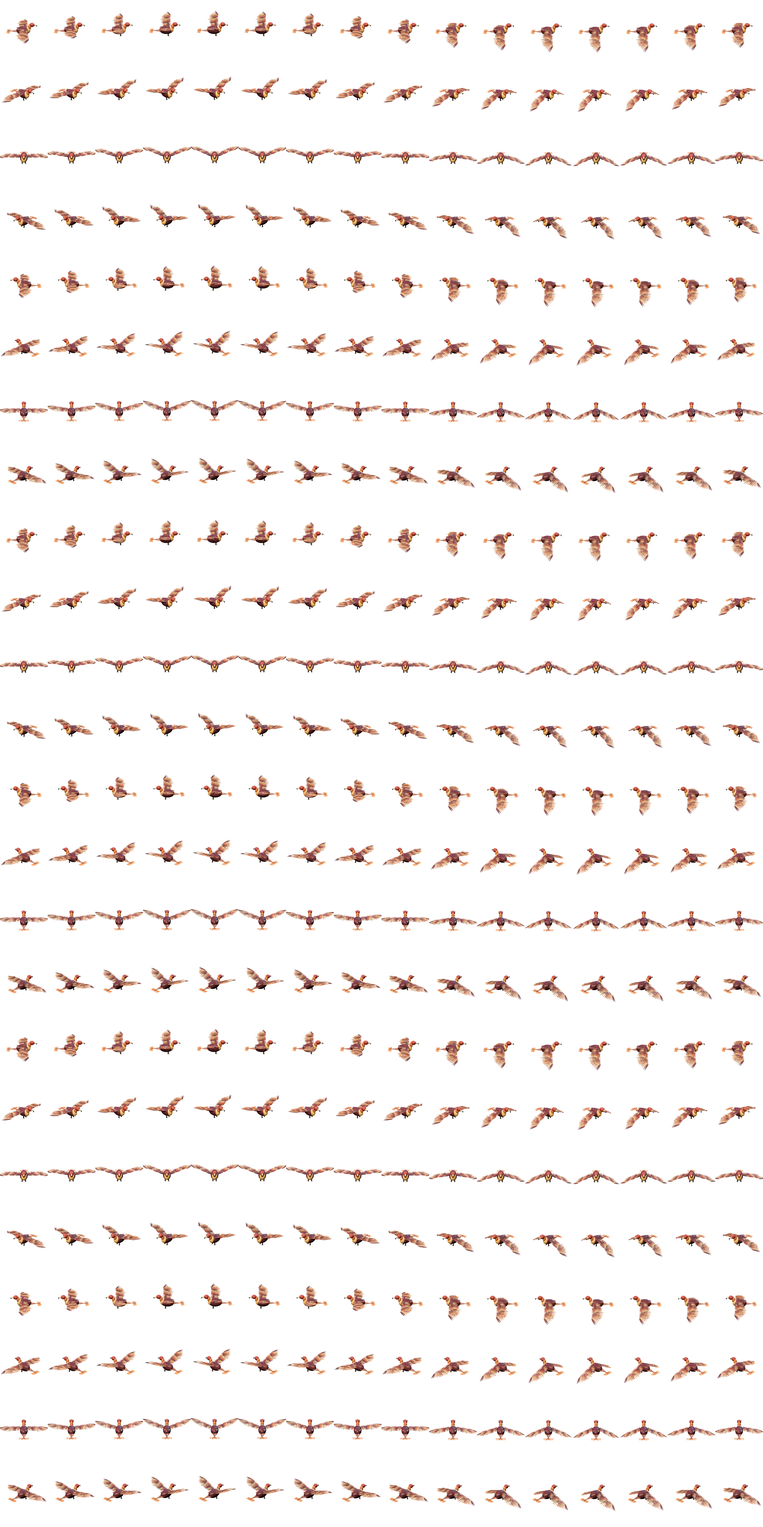
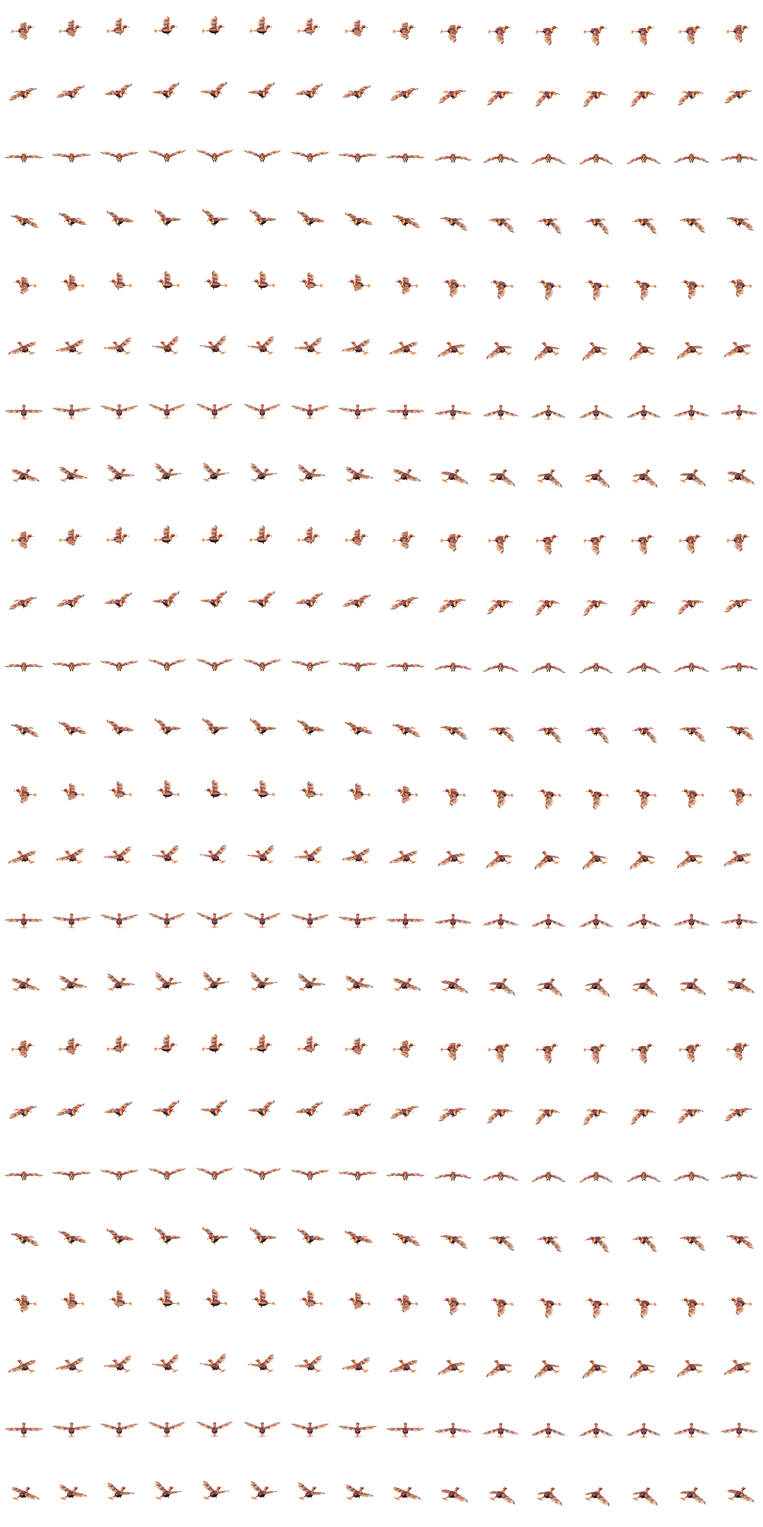
Keep the feathered phoenix smaller by normalizing its wingspan

diff --git a/graphics/live-battlefield.bundle.js b/graphics/live-battlefield.bundle.js
@@ -5171,7 +5171,7 @@ float pathMask=smoothstep(.15,.65,.5+.5*sin(visualWorld.x*.025+sin(visualWorld.z
 `+ie.fragmentShader,ie.fragmentShader=ie.fragmentShader.replace("#include <roughnessmap_fragment>",`#include <roughnessmap_fragment>
 roughnessFactor=mix(roughnessFactor,max(.08,roughnessFactor*.45),wetness);`),ie.fragmentShader=ie.fragmentShader.replace("#include <metalnessmap_fragment>",`#include <metalnessmap_fragment>
 float wear=weathering*metalnessFactor*(.5+.5*sin(visualWorld.x*.37+sin(visualWorld.z*.71)));metalnessFactor*=1.-wear;diffuseColor.rgb=mix(diffuseColor.rgb,vec3(.23,.095,.035),wear*.3);diffuseColor.rgb*=1.-wetness*.12;`),ie.fragmentShader=ie.fragmentShader.replace("#include <opaque_fragment>",`float edge=pow(1.-max(0.,dot(normal,normalize(vViewPosition))),3.);outgoingLight+=vec3(.5,.63,.67)*edge*assetRim*rimStrength*8.;outgoingLight+=diffuseColor.rgb*sssStrength*.12*(1.-max(0.,normal.y));
-#include <opaque_fragment>`)},k.customProgramCacheKey=()=>`visual-v1-${O}-${K}-${i.cascades}`,k.needsUpdate=!0,k}function T(k){return k.traverse(O=>{if(O.isMesh){O.castShadow=!0,O.receiveShadow=!0;for(let K of Array.isArray(O.material)?O.material:[O.material])N(K,{sss:K.userData.kawThinSurface||O.userData.sss||0})}}),o.add(k),k}async function x(k){let O=await new _l().loadAsync(k);return T(O.scene),O}function w(k){let O=new cr;for(let{object:K,distance:re}of k)O.addLevel(K,re);return T(O),O}function R(k,O,K){N(O);let re=new Zn(k,O,K.length);return K.forEach((ie,De)=>re.setMatrixAt(De,ie)),re.instanceMatrix.needsUpdate=!0,re.computeBoundingSphere(),T(re)}function U(k,O,K=8,re=30){if(y.length>=8)return null;let ie=new Qn(O,K,re,2);return ie.position.copy(k),ie.castShadow=!1,o.add(ie),y.push(ie),ie}function z(){let k=Math.max(1,s.clientWidth),O=Math.max(1,s.clientHeight);k===C&&O===I||(C=k,I=O,r.setSize(k,O,!1),f.setSize(k,O),u.aspect=k/O,u.updateProjectionMatrix(),h.updateFrustums())}function X(){r.info.reset(),z(),o.traverse(k=>{k.isMesh&&k.visible&&(k.getWorldPosition(E),k.castShadow=!k.userData.noShadow&&E.distanceTo(u.position)<i.distance)}),h.update();for(let k of y)k.visible=k.position.distanceTo(u.position)<i.distance;f.render()}function q(){h.remove(),h.dispose();let k=new Set;for(let O of M){for(let K of Object.values(O))K?.isTexture&&k.add(K);O.dispose()}for(let O of k)O.dispose();o.traverse(O=>{O.geometry?.dispose(),O.isSkinnedMesh&&O.skeleton.dispose()});for(let O of f.passes)O.dispose?.();f.dispose(),c.dispose(),r.dispose()}return{renderer:r,scene:o,camera:u,csm:h,effects:{ao:m,bloom:v,dof:g,aa:p},weather:b,prepare:T,prepareMaterial:N,loadAsset:x,addLOD:w,addInstances:R,emissiveLight:U,render:X,resize:z,dispose:q}}var Be=.1,Qx="20261010-living-landscape",ln=document.createElement("canvas");ln.id="liveBattlefield";ln.style.cssText="position:absolute;pointer-events:none;z-index:0;display:none";var io=document.getElementById("world");io.insertAdjacentElement("beforebegin",ln);io.style.position="relative";io.style.zIndex="1";var zs=0;try{zs=Math.max(0,Math.min(1,Number(localStorage.getItem("kaw-ground-wetness"))||0))}catch{}var Dh={value:0},Hs=!0;try{Hs=localStorage.getItem("kaw-live-3d")!=="off"}catch{}var Je=null,bl=null,Tl=null,Qr=null,wl=!1,ks=!1,so=!1,to=0,$r=null,eo=null,Bn=new Map,no=new Map,Bs=new Set,$x=null,Uh=[],Lh="";function Nh(){to++,wl=!1,ks=!1,ln.style.display="none",Bn.clear(),no.clear(),Bs.clear(),Uh=[],$r=null,eo=null,$x=null,Lh="",Je?.dispose(),Je=null,window.KawVisual?.suspend(!1)}function ev(s){Nh(),so=!1,bl=s.sessionKey,Tl=window.KawVisual?.quality||"balanced";try{Je=jd(ln,{quality:Tl,cameraType:"orthographic"}),Je.scene.background=new he("#314532"),Je.scene.fog=null,Je.weather.wetness.value=zs;for(let e=0;e<4;e++)Uh.push(Je.emissiveLight(new D(9999,9999,9999),16748602,16,12));nv(s),wl=!0}catch(e){El(e)}}function El(s){so=!0,wl=!1,ks=!1,ln.style.display="none",window.KawVisual?.suspend(!1),console.warn("Live 3D unavailable; using sprite renderer.",s.message)}function Jd(s){if(no.has(s))return no.get(s);if(Bs.has(s))return null;Bs.add(s);let e=to;return Je.loadAsset("assets/model-"+s+".glb?v="+Qx).then(t=>{if(e!==to)return;t.scene.visible=!1,t.scene.updateMatrixWorld(!0),t.scene.traverse(i=>{i.isSkinnedMesh&&(i.skeleton.update(),i.computeBoundingBox())});let n=new Nt().setFromObject(t.scene);no.set(s,{gltf:t,box:n,height:Math.max(1,n.max.y-n.min.y),width:Math.max(1,n.max.x-n.min.x,n.max.z-n.min.z)}),Bs.delete(s)}).catch(t=>{Bs.delete(s),e===to&&El(t)}),null}function tv(s,e){let t=e.state.players[s.owner]?.faction;if(s.type==="trap"&&t!=="covenant")return"world-trap-resin";if(s.building){let i=Math.min(4,s.level||1),r=s.type==="base"&&i>1?"base-level"+i:s.type==="gate"&&s.gateOpen?"gate-open":s.type;return"world-"+r+(["trap","barricade"].includes(r)?"-covenant":t==="horde"?"-dominion":t==="covenant"?"-covenant":"")}let n=s.type==="air2"&&t==="covenant"&&s.venomStinger?"cov-wasp-venom":e.unitAppearance(s.type,t,s.owner);return s.type==="worker"&&(s.cargoGold>0?n+="-carry":s.cargoWood>0&&s.order?.kind==="deliver"?n+="-logs":["repair","build"].includes(s.order?.kind)?n+="-hammer":s.order?.target?.type==="gold"&&(n+="-pick")),n}function Qd(s){s.mixer?.stopAllAction(),s.mixer?.uncacheRoot(s.model),s.roofMaterials?.forEach(e=>e.dispose()),s.root.traverse(e=>{e.isSkinnedMesh&&e.skeleton.dispose()});for(let e of[s.frame,s.mound])e&&(e.geometry.dispose(),e.material.dispose());Je.scene.remove(s.root)}function Ih(s,e,t,n=!1){let i=Jd(e),r=e.startsWith("world-base")?Jd(e.replace(/-level[234]/,"")):null;if(!i||e.startsWith("world-base")&&!r)return Bn.get(s)||null;let o=Bn.get(s);if(o?.name===e)return o;o&&Qd(o);let a=new Jt,l=Bd(i.gltf.scene);l.visible=!0,l.traverse(u=>{u.isMesh&&(u.castShadow=!0,u.receiveShadow=!0)});let c=t*Be/(n?i.height:r?.width||i.width);return l.scale.setScalar(c),l.position.y=-i.box.min.y*c,a.add(l),Je.scene.add(a),o={name:e,root:a,model:l,box:i.box,factor:c,mixer:n?new Cr(l):null,clips:i.gltf.animations,phase:null,frame:null},Bn.set(s,o),o}function nv(s){let e=s.N,t=s.CELL,n=[],i=[],r=[];for(let x=0;x<=e;x++)for(let w=0;w<=e;w++)n.push(w*t*Be,0,x*t*Be),r.push(w/e,x/e);for(let x=0;x<e;x++)for(let w=0;w<e;w++){let R=x*(e+1)+w;i.push(R,R+e+1,R+1,R+1,R+e+1,R+e+2)}let o=new vt;o.setAttribute("position",new et(n,3)),o.setAttribute("uv",new et(r,2)),o.setIndex(i),o.computeVertexNormals();let a=document.createElement("canvas");a.width=a.height=512;let l=a.getContext("2d");l.fillStyle="#e5e5de",l.fillRect(0,0,512,512);for(let x=0;x<9e3;x++){let w=x*79%512,R=x*137%512;l.fillStyle=x%4?"#354f3420":"#fdf6d544",l.fillRect(w,R,1+x%3,2+x%4)}for(let x=0;x<600;x++){let w=x*97%512,R=x*149%512;l.strokeStyle=x%3?"#37532c44":"#f6e3a544",l.beginPath(),l.moveTo(w,R),l.lineTo(w-2,R-5),l.stroke()}let c=new Ms(a);c.colorSpace=mt,c.wrapS=c.wrapT=Ut,c.repeat.set(32,32);let u=Ph(Je,{grass:s.state.map==="canyon"?10057548:s.state.map==="frontier"?6915449:4875318});u.map=c,u.bumpMap=c,u.bumpScale=.015,$r=new Ye(o,u),Je.prepare($r),$r.castShadow=!1,$r.userData.noShadow=!0;let h=document.createElement("canvas");h.width=h.height=256;let d=h.getContext("2d");for(let x=0;x<256;x++){let w=Math.floor(x/19),R=112+w%4*15;d.fillStyle=`rgb(${R+19},${R+9},${R})`,d.fillRect(0,x,256,1)}for(let x=0;x<1200;x++)d.fillStyle=x%3?"#2c282526":"#eee0bd30",d.fillRect(x*73%256,x*97%256,3+x%7,1);let f=new Ms(h);f.colorSpace=mt,f.wrapS=f.wrapT=Ut;let m=new Rt({map:f,bumpMap:f,bumpScale:.12,roughness:.98,side:Ht}),v=[],g=[],p=(x,w,R,U,z)=>x.push(...w,...R,...U,...U,...R,...z),b=(x,w,R,U,z,X)=>p(v,[x*Be,z*Be,R*Be],[x*Be,X*Be,U*Be],[w*Be,z*Be,R*Be],[w*Be,X*Be,U*Be]),M,y=(x,w,R,U,z,X)=>Fd(g,x,w,R,U,z,X,M);for(let x of s.state.plateaus||[]){M={x:x.x+x.w/2,z:x.y+x.h/2};let w=x.rampX-64,R=x.rampX+64,U=x.y+x.h,z=U-80,X=U+80;b(x.x,w,x.y,U,x.height,x.height),b(R,x.x+x.w,x.y,U,x.height,x.height),b(w,R,x.y,z,x.height,x.height),b(w,R,z,X,x.height,0),y(x.x,x.y,x.x+x.w,x.y,x.height,x.height),y(x.x,x.y,x.x,U,x.height,x.height),y(x.x+x.w,x.y,x.x+x.w,U,x.height,x.height),y(x.x,U,w,U,x.height,x.height),y(R,U,x.x+x.w,U,x.height,x.height),y(w,z,w,X,x.height,0),y(R,z,R,X,x.height,0)}for(let[x,w]of[[v,u],[g,m]])if(x.length){let R=new vt;R.setAttribute("position",new et(x,3));let U=[];for(let z=0;z<x.length;z+=3)U.push(w===m?(x[z]+x[z+2])/20:x[z]/(s.SIZE*Be),w===m?x[z+1]/8:(x[z+2]+x[z+1])/(s.SIZE*Be));R.setAttribute("uv",new et(U,2)),R.computeVertexNormals(),Je.prepare(new Ye(R,w))}let E=[],C=[];for(let x of s.state.rivers||[]){let w=E.length/3;for(let R of x.points)for(let U of[-1,1])E.push((R.x+U*x.width/2)*Be,.08,R.y*Be);for(let R=0;R<x.points.length-1;R++){let U=w+R*2;C.push(U,U+2,U+1,U+1,U+2,U+3)}}if(E.length){let x=new vt;x.setAttribute("position",new et(E,3)),x.setIndex(C),x.computeVertexNormals();let w=new Bt({color:3239035,roughness:.18,metalness:.15,clearcoat:.8,side:Ht});eo=new Ye(x,w),Je.prepare(eo),eo.castShadow=!1,eo.userData.noShadow=!0;let R=w.onBeforeCompile,U=w.customProgramCacheKey;w.onBeforeCompile=z=>{R(z),z.uniforms.waterTime=Dh,z.fragmentShader=`uniform float waterTime;
+#include <opaque_fragment>`)},k.customProgramCacheKey=()=>`visual-v1-${O}-${K}-${i.cascades}`,k.needsUpdate=!0,k}function T(k){return k.traverse(O=>{if(O.isMesh){O.castShadow=!0,O.receiveShadow=!0;for(let K of Array.isArray(O.material)?O.material:[O.material])N(K,{sss:K.userData.kawThinSurface||O.userData.sss||0})}}),o.add(k),k}async function x(k){let O=await new _l().loadAsync(k);return T(O.scene),O}function w(k){let O=new cr;for(let{object:K,distance:re}of k)O.addLevel(K,re);return T(O),O}function R(k,O,K){N(O);let re=new Zn(k,O,K.length);return K.forEach((ie,De)=>re.setMatrixAt(De,ie)),re.instanceMatrix.needsUpdate=!0,re.computeBoundingSphere(),T(re)}function U(k,O,K=8,re=30){if(y.length>=8)return null;let ie=new Qn(O,K,re,2);return ie.position.copy(k),ie.castShadow=!1,o.add(ie),y.push(ie),ie}function z(){let k=Math.max(1,s.clientWidth),O=Math.max(1,s.clientHeight);k===C&&O===I||(C=k,I=O,r.setSize(k,O,!1),f.setSize(k,O),u.aspect=k/O,u.updateProjectionMatrix(),h.updateFrustums())}function X(){r.info.reset(),z(),o.traverse(k=>{k.isMesh&&k.visible&&(k.getWorldPosition(E),k.castShadow=!k.userData.noShadow&&E.distanceTo(u.position)<i.distance)}),h.update();for(let k of y)k.visible=k.position.distanceTo(u.position)<i.distance;f.render()}function q(){h.remove(),h.dispose();let k=new Set;for(let O of M){for(let K of Object.values(O))K?.isTexture&&k.add(K);O.dispose()}for(let O of k)O.dispose();o.traverse(O=>{O.geometry?.dispose(),O.isSkinnedMesh&&O.skeleton.dispose()});for(let O of f.passes)O.dispose?.();f.dispose(),c.dispose(),r.dispose()}return{renderer:r,scene:o,camera:u,csm:h,effects:{ao:m,bloom:v,dof:g,aa:p},weather:b,prepare:T,prepareMaterial:N,loadAsset:x,addLOD:w,addInstances:R,emissiveLight:U,render:X,resize:z,dispose:q}}var Be=.1,Qx="20261010-living-landscape",ln=document.createElement("canvas");ln.id="liveBattlefield";ln.style.cssText="position:absolute;pointer-events:none;z-index:0;display:none";var io=document.getElementById("world");io.insertAdjacentElement("beforebegin",ln);io.style.position="relative";io.style.zIndex="1";var zs=0;try{zs=Math.max(0,Math.min(1,Number(localStorage.getItem("kaw-ground-wetness"))||0))}catch{}var Dh={value:0},Hs=!0;try{Hs=localStorage.getItem("kaw-live-3d")!=="off"}catch{}var Je=null,bl=null,Tl=null,Qr=null,wl=!1,ks=!1,so=!1,to=0,$r=null,eo=null,Bn=new Map,no=new Map,Bs=new Set,$x=null,Uh=[],Lh="";function Nh(){to++,wl=!1,ks=!1,ln.style.display="none",Bn.clear(),no.clear(),Bs.clear(),Uh=[],$r=null,eo=null,$x=null,Lh="",Je?.dispose(),Je=null,window.KawVisual?.suspend(!1)}function ev(s){Nh(),so=!1,bl=s.sessionKey,Tl=window.KawVisual?.quality||"balanced";try{Je=jd(ln,{quality:Tl,cameraType:"orthographic"}),Je.scene.background=new he("#314532"),Je.scene.fog=null,Je.weather.wetness.value=zs;for(let e=0;e<4;e++)Uh.push(Je.emissiveLight(new D(9999,9999,9999),16748602,16,12));nv(s),wl=!0}catch(e){El(e)}}function El(s){so=!0,wl=!1,ks=!1,ln.style.display="none",window.KawVisual?.suspend(!1),console.warn("Live 3D unavailable; using sprite renderer.",s.message)}function Jd(s){if(no.has(s))return no.get(s);if(Bs.has(s))return null;Bs.add(s);let e=to;return Je.loadAsset("assets/model-"+s+".glb?v="+Qx).then(t=>{if(e!==to)return;t.scene.visible=!1,t.scene.updateMatrixWorld(!0),t.scene.traverse(i=>{i.isSkinnedMesh&&(i.skeleton.update(),i.computeBoundingBox())});let n=new Nt().setFromObject(t.scene);no.set(s,{gltf:t,box:n,height:Math.max(1,n.max.y-n.min.y),width:Math.max(1,n.max.x-n.min.x,n.max.z-n.min.z)}),Bs.delete(s)}).catch(t=>{Bs.delete(s),e===to&&El(t)}),null}function tv(s,e){let t=e.state.players[s.owner]?.faction;if(s.type==="trap"&&t!=="covenant")return"world-trap-resin";if(s.building){let i=Math.min(4,s.level||1),r=s.type==="base"&&i>1?"base-level"+i:s.type==="gate"&&s.gateOpen?"gate-open":s.type;return"world-"+r+(["trap","barricade"].includes(r)?"-covenant":t==="horde"?"-dominion":t==="covenant"?"-covenant":"")}let n=s.type==="air2"&&t==="covenant"&&s.venomStinger?"cov-wasp-venom":e.unitAppearance(s.type,t,s.owner);return s.type==="worker"&&(s.cargoGold>0?n+="-carry":s.cargoWood>0&&s.order?.kind==="deliver"?n+="-logs":["repair","build"].includes(s.order?.kind)?n+="-hammer":s.order?.target?.type==="gold"&&(n+="-pick")),n}function Qd(s){s.mixer?.stopAllAction(),s.mixer?.uncacheRoot(s.model),s.roofMaterials?.forEach(e=>e.dispose()),s.root.traverse(e=>{e.isSkinnedMesh&&e.skeleton.dispose()});for(let e of[s.frame,s.mound])e&&(e.geometry.dispose(),e.material.dispose());Je.scene.remove(s.root)}function Ih(s,e,t,n=!1){let i=Jd(e),r=e.startsWith("world-base")?Jd(e.replace(/-level[234]/,"")):null;if(!i||e.startsWith("world-base")&&!r)return Bn.get(s)||null;let o=Bn.get(s);if(o?.name===e)return o;o&&Qd(o);let a=new Jt,l=Bd(i.gltf.scene);l.visible=!0,l.traverse(u=>{u.isMesh&&(u.castShadow=!0,u.receiveShadow=!0)});let c=t*Be/(n?e==="phoenix"?i.width/2.9:i.height:r?.width||i.width);return l.scale.setScalar(c),l.position.y=-i.box.min.y*c,a.add(l),Je.scene.add(a),o={name:e,root:a,model:l,box:i.box,factor:c,mixer:n?new Cr(l):null,clips:i.gltf.animations,phase:null,frame:null},Bn.set(s,o),o}function nv(s){let e=s.N,t=s.CELL,n=[],i=[],r=[];for(let x=0;x<=e;x++)for(let w=0;w<=e;w++)n.push(w*t*Be,0,x*t*Be),r.push(w/e,x/e);for(let x=0;x<e;x++)for(let w=0;w<e;w++){let R=x*(e+1)+w;i.push(R,R+e+1,R+1,R+1,R+e+1,R+e+2)}let o=new vt;o.setAttribute("position",new et(n,3)),o.setAttribute("uv",new et(r,2)),o.setIndex(i),o.computeVertexNormals();let a=document.createElement("canvas");a.width=a.height=512;let l=a.getContext("2d");l.fillStyle="#e5e5de",l.fillRect(0,0,512,512);for(let x=0;x<9e3;x++){let w=x*79%512,R=x*137%512;l.fillStyle=x%4?"#354f3420":"#fdf6d544",l.fillRect(w,R,1+x%3,2+x%4)}for(let x=0;x<600;x++){let w=x*97%512,R=x*149%512;l.strokeStyle=x%3?"#37532c44":"#f6e3a544",l.beginPath(),l.moveTo(w,R),l.lineTo(w-2,R-5),l.stroke()}let c=new Ms(a);c.colorSpace=mt,c.wrapS=c.wrapT=Ut,c.repeat.set(32,32);let u=Ph(Je,{grass:s.state.map==="canyon"?10057548:s.state.map==="frontier"?6915449:4875318});u.map=c,u.bumpMap=c,u.bumpScale=.015,$r=new Ye(o,u),Je.prepare($r),$r.castShadow=!1,$r.userData.noShadow=!0;let h=document.createElement("canvas");h.width=h.height=256;let d=h.getContext("2d");for(let x=0;x<256;x++){let w=Math.floor(x/19),R=112+w%4*15;d.fillStyle=`rgb(${R+19},${R+9},${R})`,d.fillRect(0,x,256,1)}for(let x=0;x<1200;x++)d.fillStyle=x%3?"#2c282526":"#eee0bd30",d.fillRect(x*73%256,x*97%256,3+x%7,1);let f=new Ms(h);f.colorSpace=mt,f.wrapS=f.wrapT=Ut;let m=new Rt({map:f,bumpMap:f,bumpScale:.12,roughness:.98,side:Ht}),v=[],g=[],p=(x,w,R,U,z)=>x.push(...w,...R,...U,...U,...R,...z),b=(x,w,R,U,z,X)=>p(v,[x*Be,z*Be,R*Be],[x*Be,X*Be,U*Be],[w*Be,z*Be,R*Be],[w*Be,X*Be,U*Be]),M,y=(x,w,R,U,z,X)=>Fd(g,x,w,R,U,z,X,M);for(let x of s.state.plateaus||[]){M={x:x.x+x.w/2,z:x.y+x.h/2};let w=x.rampX-64,R=x.rampX+64,U=x.y+x.h,z=U-80,X=U+80;b(x.x,w,x.y,U,x.height,x.height),b(R,x.x+x.w,x.y,U,x.height,x.height),b(w,R,x.y,z,x.height,x.height),b(w,R,z,X,x.height,0),y(x.x,x.y,x.x+x.w,x.y,x.height,x.height),y(x.x,x.y,x.x,U,x.height,x.height),y(x.x+x.w,x.y,x.x+x.w,U,x.height,x.height),y(x.x,U,w,U,x.height,x.height),y(R,U,x.x+x.w,U,x.height,x.height),y(w,z,w,X,x.height,0),y(R,z,R,X,x.height,0)}for(let[x,w]of[[v,u],[g,m]])if(x.length){let R=new vt;R.setAttribute("position",new et(x,3));let U=[];for(let z=0;z<x.length;z+=3)U.push(w===m?(x[z]+x[z+2])/20:x[z]/(s.SIZE*Be),w===m?x[z+1]/8:(x[z+2]+x[z+1])/(s.SIZE*Be));R.setAttribute("uv",new et(U,2)),R.computeVertexNormals(),Je.prepare(new Ye(R,w))}let E=[],C=[];for(let x of s.state.rivers||[]){let w=E.length/3;for(let R of x.points)for(let U of[-1,1])E.push((R.x+U*x.width/2)*Be,.08,R.y*Be);for(let R=0;R<x.points.length-1;R++){let U=w+R*2;C.push(U,U+2,U+1,U+1,U+2,U+3)}}if(E.length){let x=new vt;x.setAttribute("position",new et(E,3)),x.setIndex(C),x.computeVertexNormals();let w=new Bt({color:3239035,roughness:.18,metalness:.15,clearcoat:.8,side:Ht});eo=new Ye(x,w),Je.prepare(eo),eo.castShadow=!1,eo.userData.noShadow=!0;let R=w.onBeforeCompile,U=w.customProgramCacheKey;w.onBeforeCompile=z=>{R(z),z.uniforms.waterTime=Dh,z.fragmentShader=`uniform float waterTime;
 `+z.fragmentShader,z.fragmentShader=z.fragmentShader.replace("#include <normal_fragment_maps>",`#include <normal_fragment_maps>
 normal=normalize(normal+vec3(sin(visualWorld.x*1.8+waterTime*1.5)*.06,0.,cos(visualWorld.z*2.-waterTime*2.)*.06));`)},w.customProgramCacheKey=()=>U()+":water",w.needsUpdate=!0}let I=new Rt({color:8413501,roughness:.88});Je.prepareMaterial(I,{rim:0});let N=[];function T(x,w,R,U){let z=new Ye(new gr(.35,.38,U,8),I);z.rotation.z=Math.PI/2,z.position.set(x*Be,w*Be,R*Be),z.castShadow=!0,z.receiveShadow=!0,Je.scene.add(z),N.push(z)}for(let x of s.state.rivers||[])for(let w of x.bridges){let R=s.riverCenter(x,w);for(let U=0;U<14;U++)T(R,4,w-52+U*8,14)}for(let x of s.state.plateaus||[])for(let w=0;w<21;w++){let R=x.y+x.h-80+w*8;T(x.rampX,s.terrainHeight(x.rampX,R)+1,R,12.4)}Od(Je,s,Dh)}function iv(s){Qr=s;let e=s.state.time+(s.state.networkReceivedAt?Math.min(.18,(performance.now()-s.state.networkReceivedAt)/1e3):0);if(!Hs||so&&bl===s.sessionKey||((!Je||bl!==s.sessionKey||Tl!==(window.KawVisual?.quality||"balanced"))&&ev(s),!wl))return!1;try{let t=io.getBoundingClientRect(),n=io.parentElement.getBoundingClientRect();ln.style.left=t.left-n.left+"px",ln.style.top=t.top-n.top+"px",ln.style.width=t.width+"px",ln.style.height=t.height+"px",Je.resize();let i=Je.camera,r=s.viewport.width*Be,o=s.viewport.height*Be*Math.SQRT1_2;i.left=-r/2,i.right=r/2,i.top=o/2,i.bottom=-o/2,i.position.set((s.cam.x+s.viewport.width/2)*Be,100,(s.cam.y+s.viewport.height/2)*Be+100),i.lookAt((s.cam.x+s.viewport.width/2)*Be,0,(s.cam.y+s.viewport.height/2)*Be),i.updateProjectionMatrix();let a=r+":"+o;a!==Lh&&(Je.csm.updateFrustums(),Lh=a);let l=!1,c=new Set;for(let h of s.state.entities){if(h.hp<=0||h.hiddenInMine||h.owner!==0&&!s.visible(h.x,h.y)||!s.inViewport(h.x,h.y,220))continue;let d="e"+h.id;c.add(d);let f=h.building?h.size*2.7:h.type==="sniper"&&s.state.players[h.owner].faction==="covenant"?78:h.type==="melee"&&s.state.players[h.owner].faction==="covenant"?80:["air2","air3"].includes(h.type)?85:h.type==="beetle"||h.type==="cavalier"?70:55,m=Ih(d,tv(h,s),f*(h.building?1:s.unitVisualScale(h)),!h.building);if(!m){l=!0;continue}m.root.visible=!0;let v=h.x,g=h.y;if(h.networkAt&&h.networkFrom){m.networkAt!==h.networkAt&&(m.networkAt=h.networkAt,m.from=m.anchor||h.networkFrom);let p=Math.min(1,(performance.now()-h.networkAt)/150);v=m.from.x+(h.x-m.from.x)*p,g=m.from.y+(h.y-m.from.y)*p}if(m.anchor={x:v,y:g},m.lastUsed=performance.now(),m.root.position.set(v*Be,s.renderAltitude(h)*Be,g*Be),m.root.rotation.y=h.building?h.type==="trap"&&s.state.players[h.owner].faction==="covenant"?e*1.6:0:Math.PI/2-(h.facing||0),h.building&&s.state.players[h.owner].faction==="covenant"&&!m.roofMaterials&&(m.roofMaterials=[],m.model.traverse(p=>{if(!p.isMesh||p.material.name!=="verdant-roof")return;let b=p.material.clone(),M=new he(s.state.players[h.owner].color);Je.prepareMaterial(b);let y=b.onBeforeCompile;b.onBeforeCompile=E=>{y(E),E.uniforms.roofTeam={value:M},E.fragmentShader=`uniform vec3 roofTeam;
 `+E.fragmentShader,E.fragmentShader=E.fragmentShader.replace("#include <color_fragment>",`#include <color_fragment>

diff --git a/tools/frontier-art-extension.js b/tools/frontier-art-extension.js
@@ -128,7 +128,7 @@ function kawFlyer(name){if(name==='pig')return kawPig();if(name==='phoenix')retu
 function kawVehicle(name){const root=new Kt,wood=kawMaterial(0x806044,'wood'),steel=kawMaterial(0x798f96,'metal',.8),dark=kawMaterial(0x28362e),trim=kawMaterial(0xd2b986,'metal',.6);ot(root,31,8,37,wood,0,11,0);root.userData.wheels=[];for(const x of [-19,19])for(const z of [-12,12]){const wheel=J(root,st('cylinder',8,8,4),dark,x,9,z);wheel.rotation.z=Math.PI/2;root.userData.wheels.push(wheel);V(root,3,trim,x,9,z);}if(name==='bombard'){const barrel=J(root,st('cylinder',6,8,47),steel,0,22,9);barrel.rotation.x=Math.PI/2;J(root,st('torus',6.1,1),trim,0,22,32);ot(root,18,8,14,steel,0,16,-8);}else{for(const x of [-10,10])ot(root,4,30,5,wood,x,25,0);const arm=J(root,st('cylinder',3,3,49),wood,0,31,7);arm.rotation.x=.5;V(root,9,steel,0,50,18,1,.4,1);V(root,7,kawMaterial(0x8c927b),0,54,18);}return root;}
 window.KawCapture=(name,angle,phase,frame,width=144,height=192,horde=false)=>{
  if(ts)fn.remove(ts);const key=name+horde;ts=kawModels[key]||(kawModels[key]=name==='world-gate'||name==='world-gate-open'?kawGate(name.endsWith('-open'),horde):name==='menu-orc'?kawMenuOrc():name==='cov-captain'?kawRockGolem():name.startsWith('world-')&&horde==='covenant'?kawCovenantWorld(name.slice(6)):['cov-shellguard','cov-archer','cov-resin'].includes(name)?kawCreature(name):name==='carrion'?kawCarrion():['cov-beetle','cov-moth','cov-wasp','cov-wasp-venom','cov-centipede','cov-burrower'].includes(name)?kawInsect(name):name.startsWith('cov-')||['shieldwarden','medic','engineer','trapper','bogbreaker','pathfinder'].includes(name)?kawSpecialCharacter(name):name==='cavalier'?kawCavalier():name.startsWith('world-')?kawWorld(name.slice(6),horde):['bombard','hewer'].includes(name)?kawVehicle(name):['phoenix','dragon','gryphon','wyvern','pig'].includes(name)?kawFlyer(name):kawCharacter(name));if(!ts.userData.painted){kawFinishPaintedModel(ts,name,horde);if(ts.userData.arthropod)ts.traverse(m=>{if(m.isMesh){m.material.flatShading=false;m.material.needsUpdate=true;}});ts.userData.painted=true;}fn.add(ts);ts.position.set(0,0,0);ts.rotation.set(0,0,0);ye.setSize(width,height,false);Sn.aspect=width/height;
- const world=name.startsWith('world-');const broad=['cov-wasp','cov-wasp-venom','cov-centipede','phoenix','dragon','gryphon','wyvern','cov-moth','cov-wasp','carrion'].includes(name);Sn.position.set(world&&!['world-gold','world-tree','world-pine','world-mountain'].includes(name)?0:world?125:0,world?195:82,world?(name.includes('-level')?320:245):['cov-wasp','cov-wasp-venom','cov-centipede'].includes(name)?245:broad?340:['cavalier','cov-beetle'].includes(name)?270:name==='cov-burrower'?250:name==='shieldwarden'?320:name==='trapper'?300:['cov-shellguard','cov-resin'].includes(name)?350:name==='cov-archer'?270:name==='cov-captain'?280:name==='bogbreaker'?330:name==='devoured'?370:['knight','pig','marksman','witch'].includes(name)?280:name==='shaman'?285:name==='troll'?240:205);Sn.lookAt(0,world?32:['cavalier','cov-beetle'].includes(name)?49:name==='troll'?44:38,0);Sn.updateProjectionMatrix();if(ts.userData.verdantArchitecture){ts.updateMatrixWorld(true);let bounds=null;ts.traverse(m=>{if(!m.isMesh)return;m.geometry.computeBoundingBox();const b=m.geometry.boundingBox.clone().applyMatrix4(m.matrixWorld);bounds?bounds.union(b):bounds=b;});if(bounds){const height=bounds.max.y-bounds.min.y,width=Math.max(bounds.max.x-bounds.min.x,bounds.max.z-bounds.min.z),distance=Math.max(height,width/Sn.aspect)/(2*Math.tan(Sn.fov*Math.PI/360))*1.35,center=(bounds.max.y+bounds.min.y)*.5;Sn.position.set(0,center+distance*.64,distance*.77);Sn.lookAt(0,center,0);Sn.updateProjectionMatrix();}}if(name.startsWith('world-base')){Sn.position.set(0,horde==='covenant'?230:195,horde==='covenant'?410:320);Sn.lookAt(0,horde==='covenant'?85:45,0);Sn.updateProjectionMatrix();}if(name==='phoenix'){Sn.position.set(0,180,300);Sn.lookAt(0,24,0);Sn.updateProjectionMatrix();}const progress=frame/16;if(name==='menu-orc'){Sn.position.set(90,110,245);Sn.lookAt(0,40,0);Sn.updateProjectionMatrix();ts.userData.menuBody.scale.y=1+Math.sin(progress*Math.PI*2)*.008;for(let i=0;i<ts.userData.drops.length;i++){const drop=ts.userData.drops[i],t=(progress+i/6)%1;drop.position.y=14-t*28;drop.scale.y=1+t*.9;}}
+ const world=name.startsWith('world-');const broad=['cov-wasp','cov-wasp-venom','cov-centipede','phoenix','dragon','gryphon','wyvern','cov-moth','cov-wasp','carrion'].includes(name);Sn.position.set(world&&!['world-gold','world-tree','world-pine','world-mountain'].includes(name)?0:world?125:0,world?195:82,world?(name.includes('-level')?320:245):['cov-wasp','cov-wasp-venom','cov-centipede'].includes(name)?245:broad?340:['cavalier','cov-beetle'].includes(name)?270:name==='cov-burrower'?250:name==='shieldwarden'?320:name==='trapper'?300:['cov-shellguard','cov-resin'].includes(name)?350:name==='cov-archer'?270:name==='cov-captain'?280:name==='bogbreaker'?330:name==='devoured'?370:['knight','pig','marksman','witch'].includes(name)?280:name==='shaman'?285:name==='troll'?240:205);Sn.lookAt(0,world?32:['cavalier','cov-beetle'].includes(name)?49:name==='troll'?44:38,0);Sn.updateProjectionMatrix();if(ts.userData.verdantArchitecture){ts.updateMatrixWorld(true);let bounds=null;ts.traverse(m=>{if(!m.isMesh)return;m.geometry.computeBoundingBox();const b=m.geometry.boundingBox.clone().applyMatrix4(m.matrixWorld);bounds?bounds.union(b):bounds=b;});if(bounds){const height=bounds.max.y-bounds.min.y,width=Math.max(bounds.max.x-bounds.min.x,bounds.max.z-bounds.min.z),distance=Math.max(height,width/Sn.aspect)/(2*Math.tan(Sn.fov*Math.PI/360))*1.35,center=(bounds.max.y+bounds.min.y)*.5;Sn.position.set(0,center+distance*.64,distance*.77);Sn.lookAt(0,center,0);Sn.updateProjectionMatrix();}}if(name.startsWith('world-base')){Sn.position.set(0,horde==='covenant'?230:195,horde==='covenant'?410:320);Sn.lookAt(0,horde==='covenant'?85:45,0);Sn.updateProjectionMatrix();}if(name==='phoenix'){Sn.position.set(0,240,405);Sn.lookAt(0,24,0);Sn.updateProjectionMatrix();}const progress=frame/16;if(name==='menu-orc'){Sn.position.set(90,110,245);Sn.lookAt(0,40,0);Sn.updateProjectionMatrix();ts.userData.menuBody.scale.y=1+Math.sin(progress*Math.PI*2)*.008;for(let i=0;i<ts.userData.drops.length;i++){const drop=ts.userData.drops[i],t=(progress+i/6)%1;drop.position.y=14-t*28;drop.scale.y=1+t*.9;}}
  if(ts.userData.ironBeast)kawAnimateIronBeast(ts,angle,phase,progress);
  if(ts.userData.windElemental)kawAnimateWindElemental(ts,angle,phase,progress);
  if(ts.userData.creature)kawAnimateCreature(ts,angle,phase,progress);

diff --git a/graphics/live-battlefield.js b/graphics/live-battlefield.js
@@ -17,8 +17,8 @@ function assetName(e,c){const race=c.state.players[e.owner]?.faction;if(e.type==
 function releaseEntry(entry){entry.mixer?.stopAllAction();entry.mixer?.uncacheRoot(entry.model);entry.roofMaterials?.forEach(m=>m.dispose());entry.root.traverse(m=>{if(m.isSkinnedMesh)m.skeleton.dispose();});for(const part of [entry.frame,entry.mound])if(part){part.geometry.dispose();part.material.dispose();}pipeline.scene.remove(entry.root);}
 function instantiate(id,name,size,unit=false){const template=ensure(name),baseline=name.startsWith('world-base')?ensure(name.replace(/-level[234]/,'')):null;// Retain the attached rig while a worker tool or stronghold upgrade loads.
  if(!template||name.startsWith('world-base')&&!baseline)return objects.get(id)||null;let entry=objects.get(id);if(entry?.name===name)return entry;if(entry)releaseEntry(entry);
- const root=new THREE.Group(),model=cloneRig(template.gltf.scene);model.visible=true;model.traverse(m=>{if(m.isMesh){m.castShadow=true;m.receiveShadow=true;}});// Anchor all Stronghold tiers to the level-one asset, so existing towers never shrink.
- const factor=size*SCALE/(unit?template.height:baseline?.width||template.width);model.scale.setScalar(factor);model.position.y=-template.box.min.y*factor;root.add(model);pipeline.scene.add(root);entry={name,root,model,box:template.box,factor,mixer:unit?new THREE.AnimationMixer(model):null,clips:template.gltf.animations,phase:null,frame:null};objects.set(id,entry);return entry;}
+ const root=new THREE.Group(),model=cloneRig(template.gltf.scene);model.visible=true;model.traverse(m=>{if(m.isMesh){m.castShadow=true;m.receiveShadow=true;}});// Anchor all Stronghold tiers to level one. Phoenix span/height 2.9 matches its former silhouette, so the wider feather fan cannot undo its size reduction.
+ const factor=size*SCALE/(unit?(name==='phoenix'?template.width/2.9:template.height):baseline?.width||template.width);model.scale.setScalar(factor);model.position.y=-template.box.min.y*factor;root.add(model);pipeline.scene.add(root);entry={name,root,model,box:template.box,factor,mixer:unit?new THREE.AnimationMixer(model):null,clips:template.gltf.animations,phase:null,frame:null};objects.set(id,entry);return entry;}
 function buildTerrain(c){const n=c.N,step=c.CELL,vertices=[],indices=[],uv=[];for(let z=0;z<=n;z++)for(let x=0;x<=n;x++){vertices.push(x*step*SCALE,0,z*step*SCALE);uv.push(x/n,z/n);}for(let z=0;z<n;z++)for(let x=0;x<n;x++){const i=z*(n+1)+x;indices.push(i,i+n+1,i+1,i+1,i+n+1,i+n+2);}const g=new THREE.BufferGeometry();g.setAttribute('position',new THREE.Float32BufferAttribute(vertices,3));g.setAttribute('uv',new THREE.Float32BufferAttribute(uv,2));g.setIndex(indices);g.computeVertexNormals();const textureCanvas=document.createElement('canvas');textureCanvas.width=textureCanvas.height=512;const paint=textureCanvas.getContext('2d');paint.fillStyle='#e5e5de';paint.fillRect(0,0,512,512);for(let i=0;i<9000;i++){const x=i*79%512,z=i*137%512;paint.fillStyle=i%4?'#354f3420':'#fdf6d544';paint.fillRect(x,z,1+i%3,2+i%4);}for(let i=0;i<600;i++){const x=i*97%512,z=i*149%512;paint.strokeStyle=i%3?'#37532c44':'#f6e3a544';paint.beginPath();paint.moveTo(x,z);paint.lineTo(x-2,z-5);paint.stroke();}const texture=new THREE.CanvasTexture(textureCanvas);texture.colorSpace=THREE.SRGBColorSpace;texture.wrapS=texture.wrapT=THREE.RepeatWrapping;texture.repeat.set(32,32);const terrainMaterial=createTerrainMaterial(pipeline,{grass:c.state.map==='canyon'?0x99774c:c.state.map==='frontier'?0x698579:0x4a6436});terrainMaterial.map=texture;terrainMaterial.bumpMap=texture;terrainMaterial.bumpScale=.015;terrain=new THREE.Mesh(g,terrainMaterial);pipeline.prepare(terrain);terrain.castShadow=false;terrain.userData.noShadow=true;
  // Exact plateau boundaries avoid interpolated hills where simulation has a sheer cliff.
  const rockCanvas=document.createElement('canvas');rockCanvas.width=rockCanvas.height=256;const rockPaint=rockCanvas.getContext('2d');for(let y=0;y<256;y++){const band=Math.floor(y/19),shade=112+band%4*15;rockPaint.fillStyle=`rgb(${shade+19},${shade+9},${shade})`;rockPaint.fillRect(0,y,256,1);}for(let i=0;i<1200;i++){rockPaint.fillStyle=i%3?'#2c282526':'#eee0bd30';rockPaint.fillRect(i*73%256,i*97%256,3+i%7,1);}const rockTexture=new THREE.CanvasTexture(rockCanvas);rockTexture.colorSpace=THREE.SRGBColorSpace;rockTexture.wrapS=rockTexture.wrapT=THREE.RepeatWrapping;const rockMaterial=new THREE.MeshStandardMaterial({map:rockTexture,bumpMap:rockTexture,bumpScale:.12,roughness:.98,side:THREE.DoubleSide});

diff --git a/README.md b/README.md
@@ -425,7 +425,7 @@ Asset authoring helpers are in `tools/masonry-art.js`. Include this file alongsi
 
 Live terrain uses rooted, tapered grass blades with GPU wind animation, varied olive/gold colors, and denser grassy riverbanks. Low quality caps field grass at 8,000 instances; other presets use 24,000, drawn in one material batch with grass shadows disabled. Classic rendering adds sparse animated tufts and bank reeds. Plateau rock faces have subdivided sloping ledges, uneven surfaces and sediment layers; playable tops, ramps and navigation remain aligned.
 
-Strongholds keep the same physical model scale across upgrades, anchored to the level-one asset. Classic tier images use a fixed faction camera and display size so existing walls do not shrink when new towers appear. All units render 10% smaller. The Fire Phoenix has an additional 25% reduction and an original articulated bird model with layered secondary/primary feathers, coverts, warm plumage variation, hooked beak, talons, tail feathers and emissive flame tips.
+Strongholds keep the same physical model scale across upgrades, anchored to the level-one asset. Classic tier images use a fixed faction camera and display size so existing walls do not shrink when new towers appear. All units render 10% smaller. The Fire Phoenix has an additional 25% reduction and an original articulated bird model normalized by wingspan, with layered secondary/primary feathers, coverts, warm plumage variation, hooked beak, talons, tail feathers and emissive flame tips.
 
 Walls cost 7.5 gold and 17.5 lumber, exactly half the previous price. Collectors can build Wall Gates for 20 gold / 30 lumber, or select a completed wall and choose Add gate for the same cost. Select a gate to Open gate / Close gate. Open gates allow everyone through; an occupied doorway cannot close. Gate states invalidate route caches and are validated by the multiplayer server. New assets include open/closed gates for all three factions.
 
